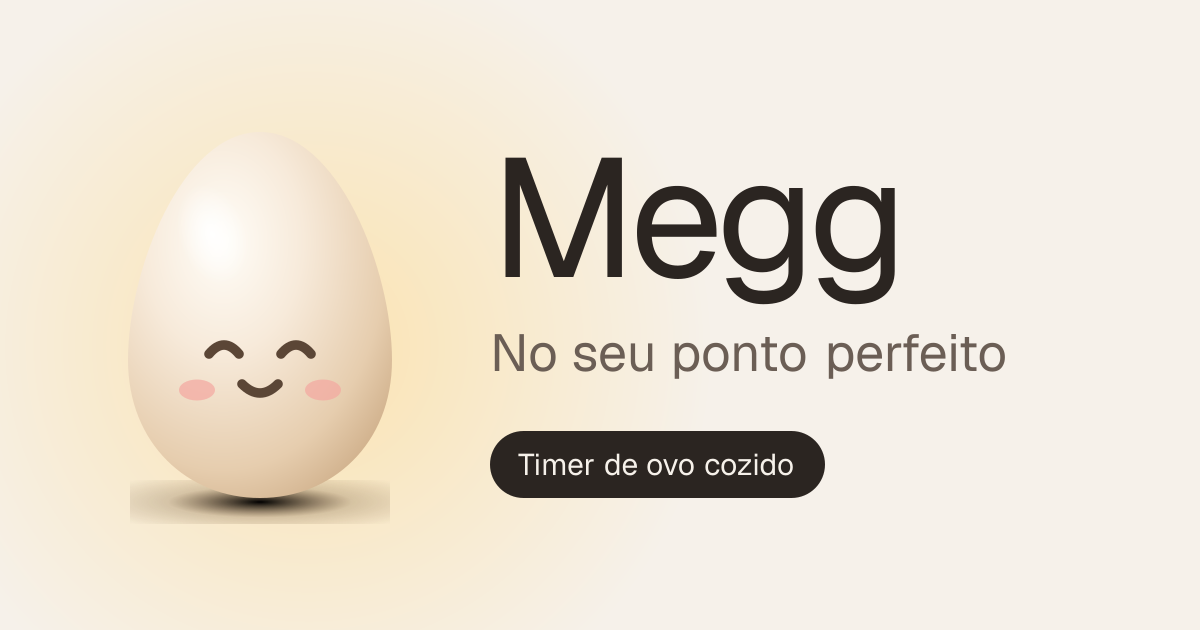
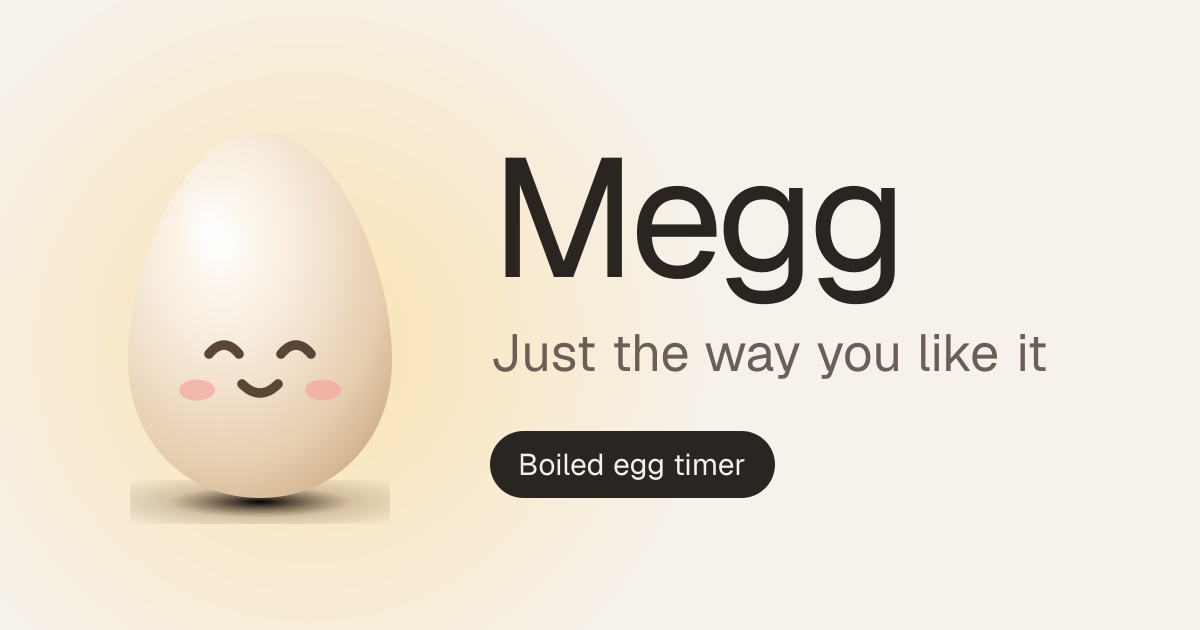
Use the English tagline on the share image

Changed region(s): [[0.4008, 0.5127, 0.8942, 0.6032], [0.4317, 0.6635, 0.7092, 0.8143]]

diff --git a/src/app/opengraph-image.tsx b/src/app/opengraph-image.tsx
@@ -1,8 +1,8 @@
 import { ImageResponse } from "next/og";
 import { eggDataUri } from "@/lib/egg-art";
-import { SITE_NAME, SITE_TAGLINE } from "@/lib/site";
+import { SITE_NAME } from "@/lib/site";
 
-export const alt = `${SITE_NAME}: ${SITE_TAGLINE}. Timer de ovo cozido com um ovo sorridente.`;
+export const alt = `${SITE_NAME}: Just the way you like it. A boiled-egg timer with a smiling egg.`;
 export const size = { width: 1200, height: 630 };
 export const contentType = "image/png";
 
@@ -36,7 +36,7 @@ export default function OpengraphImage() {
         </div>
         <div style={{ display: "flex", flexDirection: "column" }}>
           <div style={{ fontSize: 168, letterSpacing: -6, lineHeight: 1 }}>{SITE_NAME}</div>
-          <div style={{ fontSize: 52, marginTop: 18, color: "#6B5E55" }}>{SITE_TAGLINE}</div>
+          <div style={{ fontSize: 52, marginTop: 18, color: "#6B5E55" }}>Just the way you like it</div>
           <div
             style={{
               display: "flex",
@@ -49,7 +49,7 @@ export default function OpengraphImage() {
               fontSize: 30,
             }}
           >
-            Timer de ovo cozido
+            Boiled egg timer
           </div>
         </div>
       </div>

diff --git a/README.md b/README.md
@@ -1,7 +1,7 @@
 # Megg
 
 <p align="center">
-  <img src="docs/og.png" alt="Megg — No seu ponto perfeito" width="800" />
+  <img src="docs/og.png" alt="Megg — Just the way you like it" width="800" />
 </p>
 
 **Just the way you like it.** A mobile-first boiled-egg timer that finds the exact cook time from the egg’s weight, starting temperature, and yolk doneness — then counts down and rings when it’s ready.
